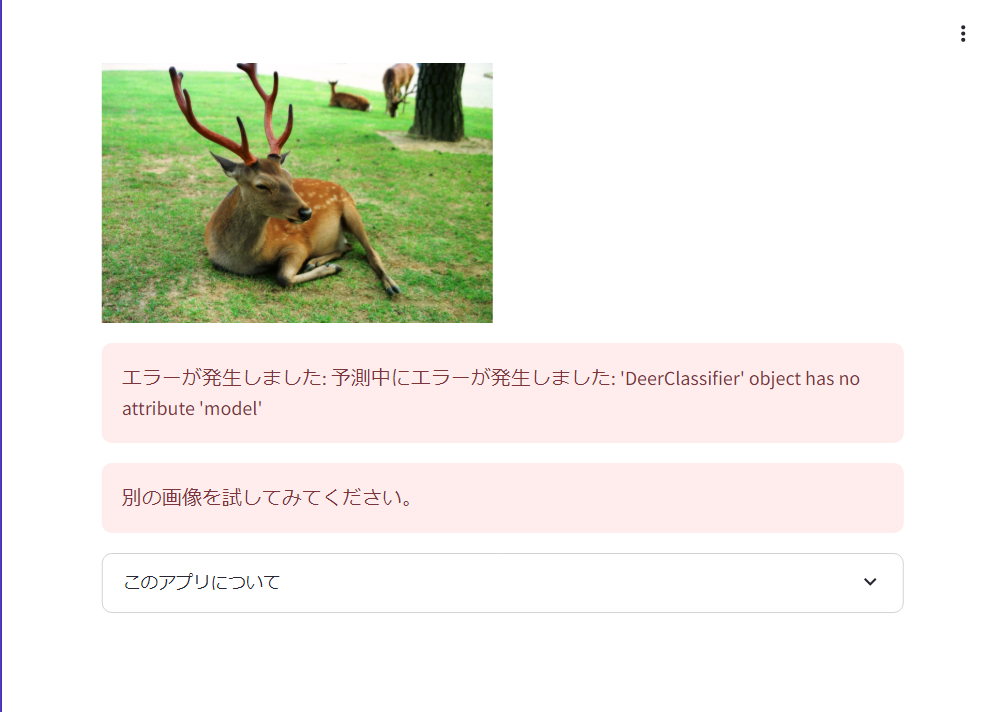
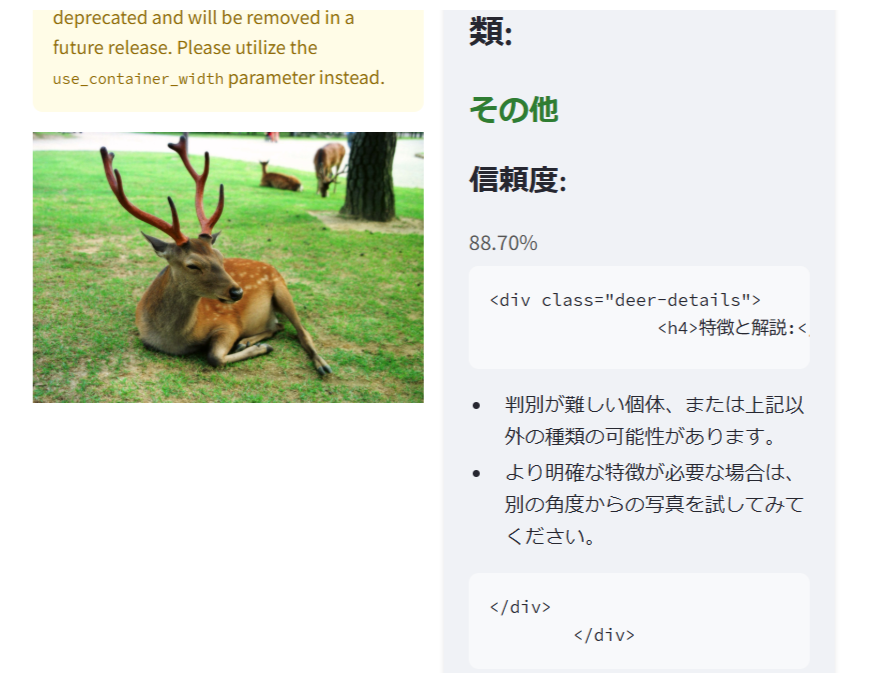
Agent query: インターフェースはシンプルになり、鹿の種類と信頼度のみが表示されていますか？

diff --git a/main.py b/main.py
@@ -5,55 +5,7 @@ from utils.image_processor import preprocess_image
 from utils.model_handler import DeerClassifier
 import os
 
-def get_deer_description(deer_type):
-    descriptions = {
-        "ニホンジカ": """
-        <ul>
-            <li>体長: オス120-190cm、メス110-160cm</li>
-            <li>特徴:</li>
-            <ul>
-                <li>夏毛は赤褐色、冬毛は灰褐色</li>
-                <li>尾は短く、尾の周りに白い毛</li>
-                <li>オスは角を持ち、年齢とともに枝分かれが増える</li>
-            </ul>
-            <li>生息地: 本州、四国、九州の森林地帯</li>
-            <li>食性: 草食性（若葉、樹皮、果実など）</li>
-        </ul>
-        """,
-        "エゾシカ": """
-        <ul>
-            <li>体長: オス170-190cm、メス150-170cm</li>
-            <li>特徴:</li>
-            <ul>
-                <li>ニホンジカより大型</li>
-                <li>冬毛は灰色がかった茶色</li>
-                <li>尾の上部に大きな白斑</li>
-            </ul>
-            <li>生息地: 北海道全域</li>
-            <li>食性: 草本類、木の葉、樹皮など</li>
-        </ul>
-        """,
-        "ヤクシカ": """
-        <ul>
-            <li>体長: オス110-130cm、メス100-120cm</li>
-            <li>特徴:</li>
-            <ul>
-                <li>ニホンジカの亜種で、より小型</li>
-                <li>体色は暗褐色</li>
-                <li>島嶼性矮小化の典型例</li>
-            </ul>
-            <li>生息地: 屋久島</li>
-            <li>食性: 下層植生、シダ類など</li>
-        </ul>
-        """,
-        "その他": """
-        <ul>
-            <li>判別が難しい個体、または上記以外の種類の可能性があります。</li>
-            <li>より明確な特徴が必要な場合は、別の角度からの写真を試してみてください。</li>
-        </ul>
-        """
-    }
-    return descriptions.get(deer_type, "情報がありません。")
+# Placeholder for future model implementation
 
 # Page config
 st.set_page_config(
@@ -108,10 +60,7 @@ def main():
                         <h4>信頼度:</h4>
                         <p class="confidence-text">{confidence:.2f}%</p>
                         
-                        <div class="deer-details">
-                            <h4>特徴と解説:</h4>
-                            {get_deer_description(prediction)}
-                        </div>
+                        
                     </div>
                 """, unsafe_allow_html=True)
 
